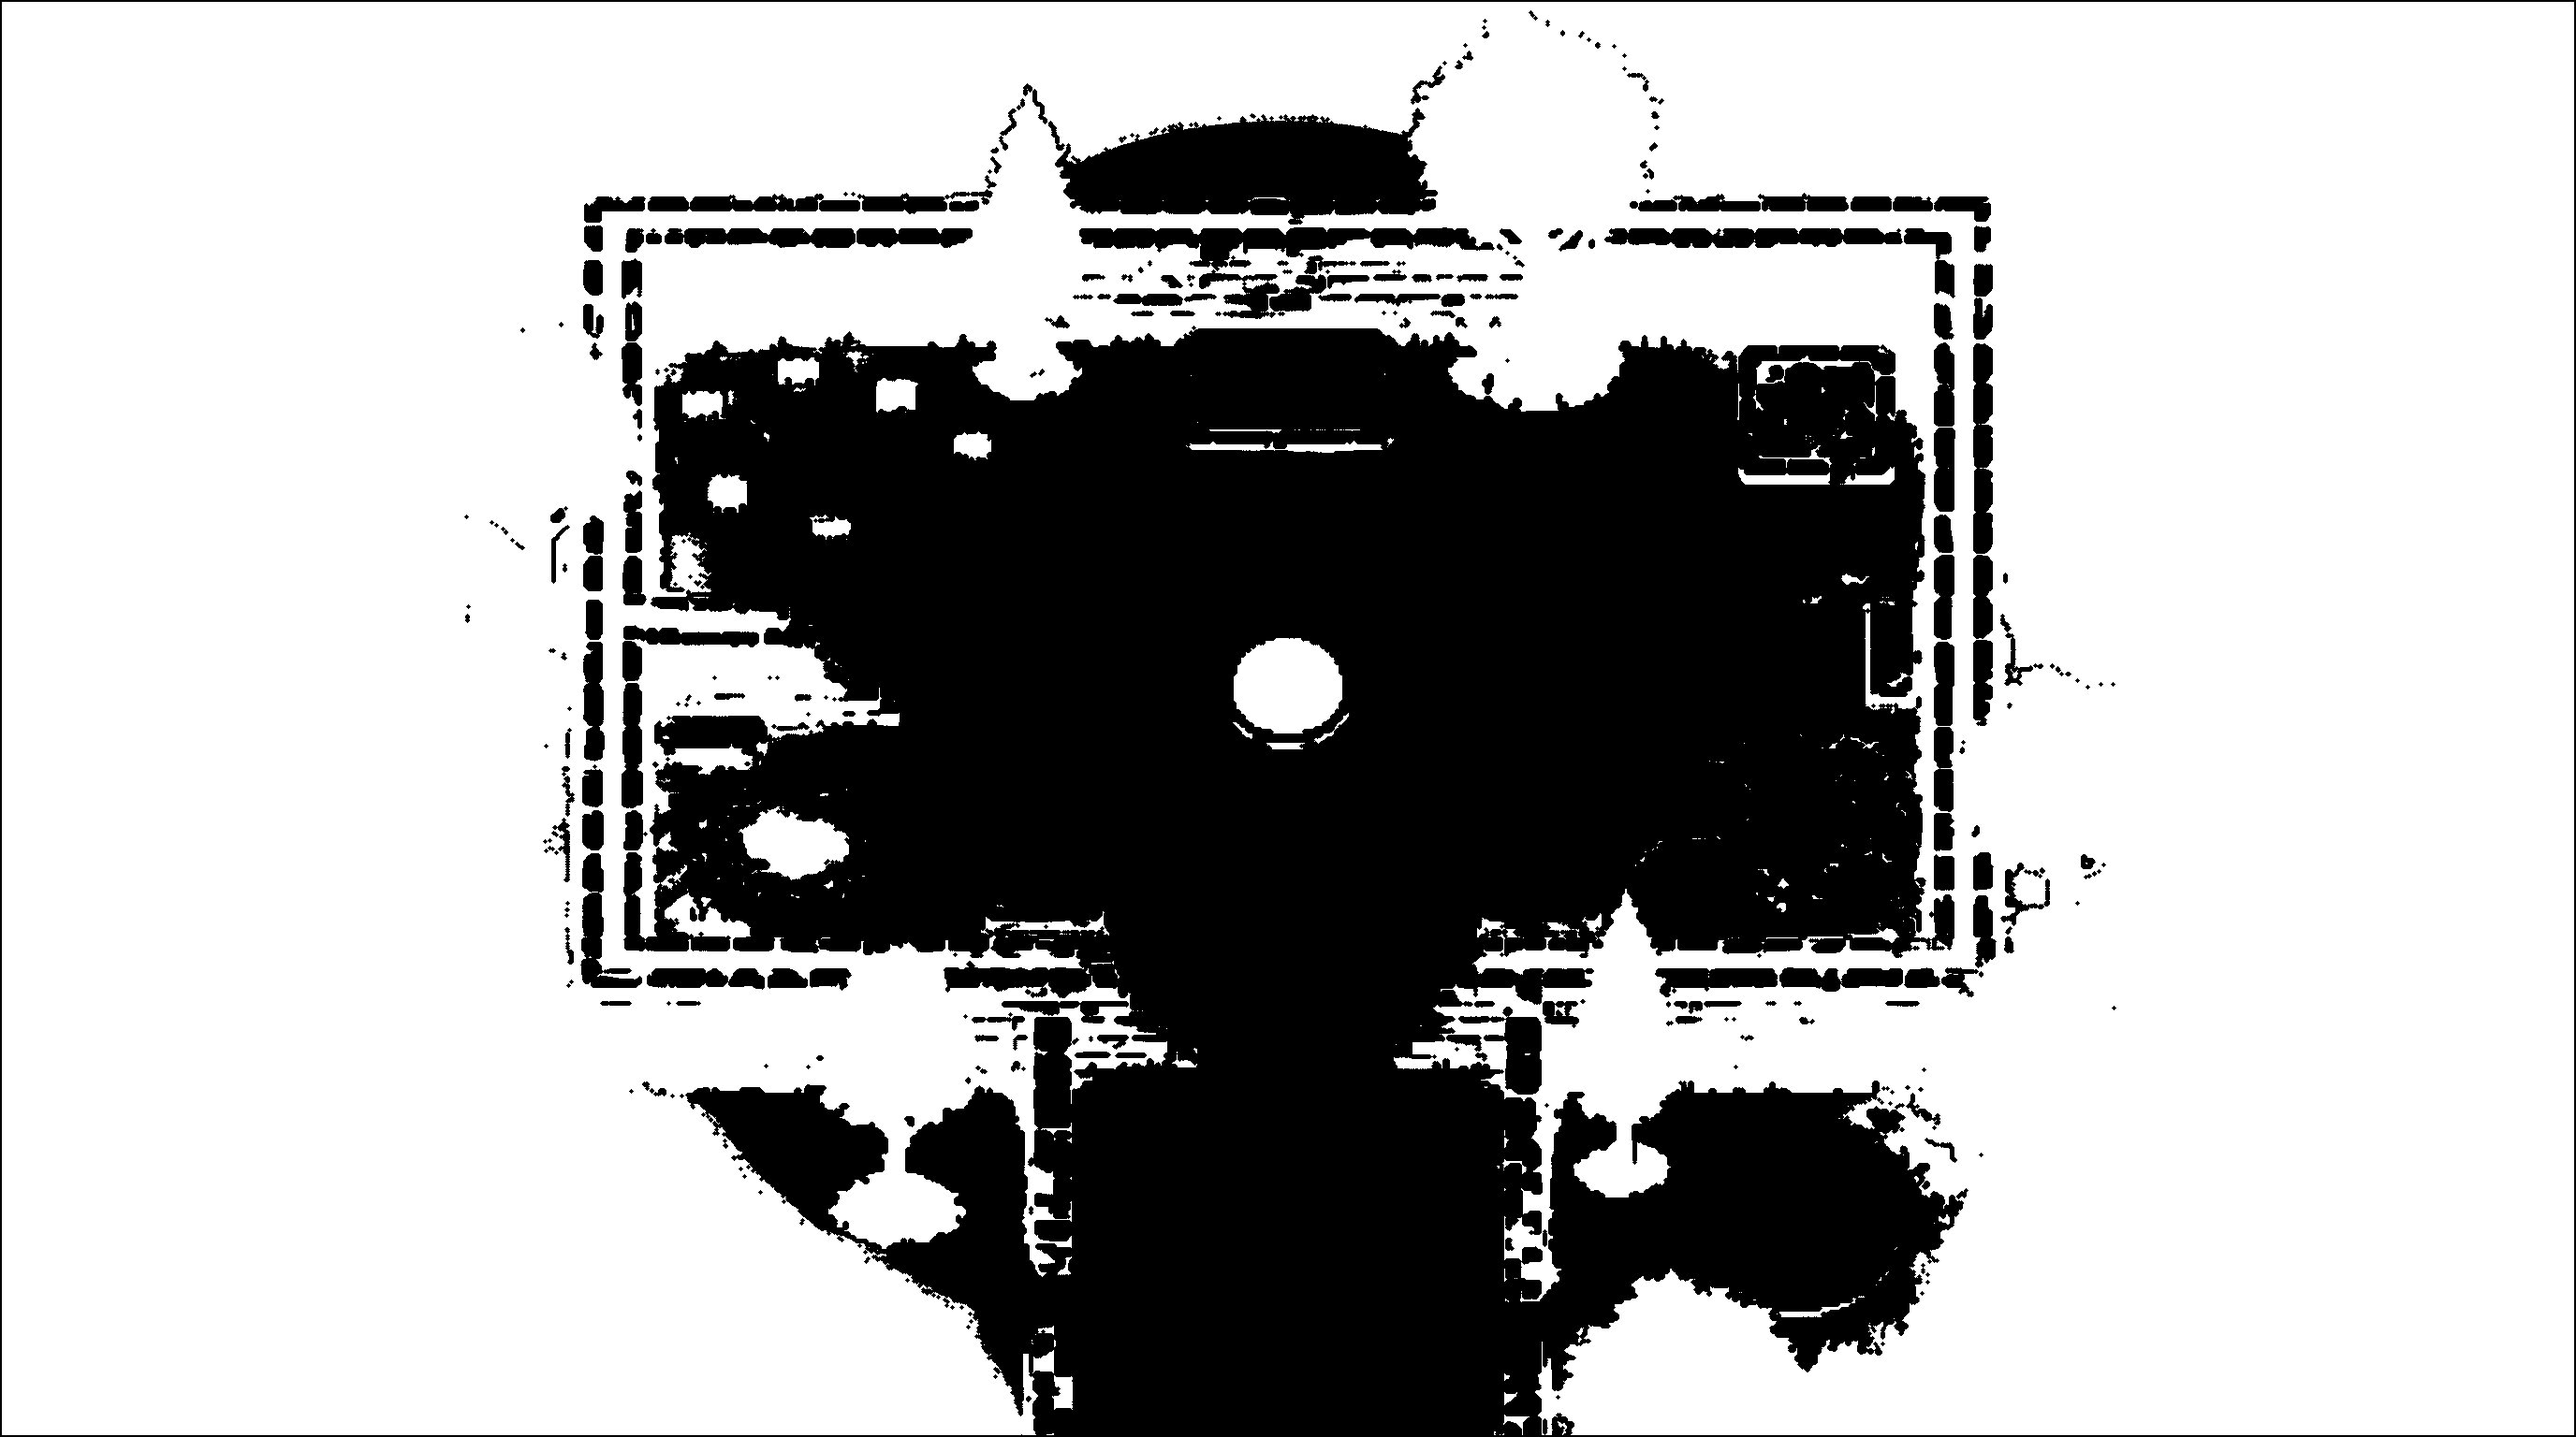
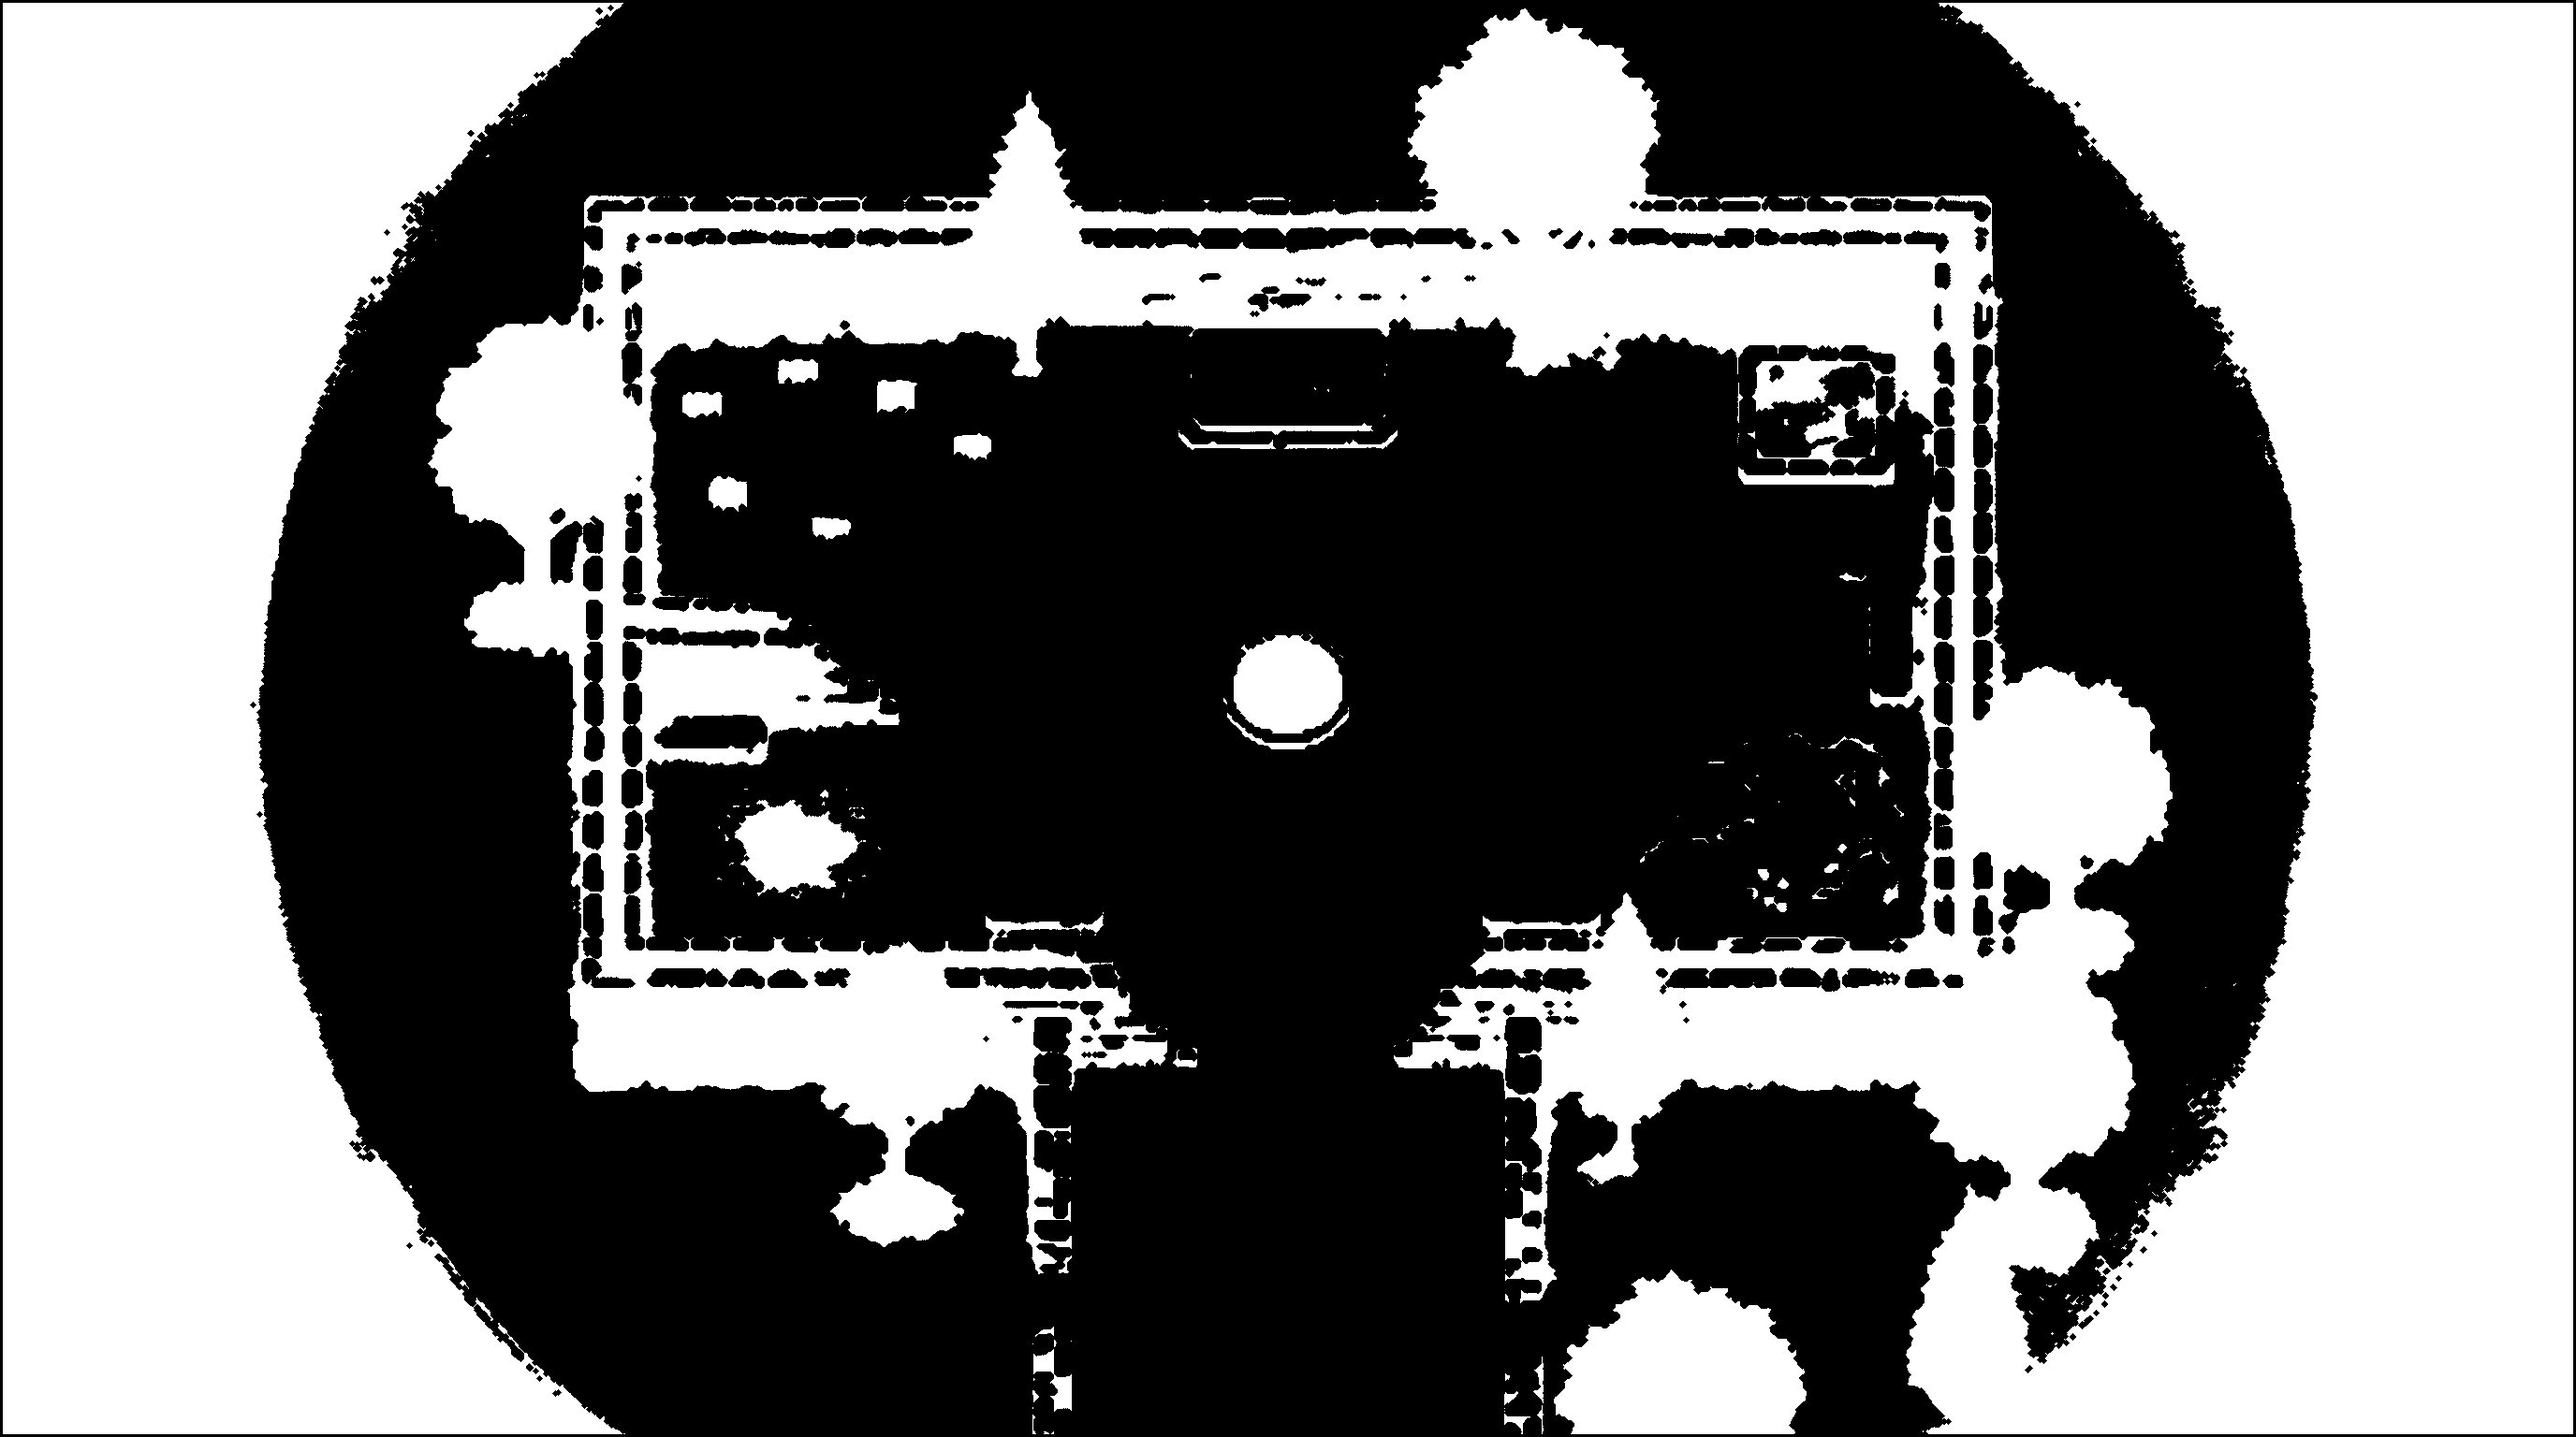
fix: smarter walkability + smarter torch placement
User feedback: walls still walkable in spots; torches placed on
doors. Two real-world flaws addressed.

WALKABILITY — chromatic classifier replaces pure luminance threshold.
Previous mask used 'lum < 75 = blocked,' which mis-classified DARK
GREEN GRASS (lum 50-90) as walls because grass and stone share a
luminance range. Now uses RGB chromatic separation:

  green-dominant pixel (G > R+8 AND G > B+8) → grass/foliage
    (walkable, except very dark <35 lum which is dense tree → blocked)
  non-green dark pixel (lum < 80) → stone/wall → blocked
  otherwise → walkable

Plus morphological closing (1 iter) + erosion (2 iter) to fill 1-2px
gaps in walls and keep narrow path corridors open.

Result: 45.6% blocked (was 67.6% with pure-luminance, was ~50% with
the original lax mask). Walls and trees solidly blocked, grass and
cobble correctly walkable, painted central pit covered by
ALWAYS_WALKABLE rect (unchanged).

TORCH PLACEMENT — previously skipped only the legacy single-center
door column. Graph rooms (most rooms) use data.doorPlan.north which
can have multiple door columns at non-center positions, so torches
landed right next to doors. Now collects ALL door columns from
data.doorPlan and skips any torch column within ±2 of any door —
clear breathing room around every doorway.

diff --git a/slime-depths/src/room.js b/slime-depths/src/room.js
@@ -593,9 +593,19 @@ export function buildRoomFromData(data) {
   roomTorches.length = 0;
   if (data.kind !== 'hamlet') {
     const torchCols = (data.kind === 'boss') ? [3, 8, 11, 16] : [5, 14];
-    const skipDoor = northDoorPos();
+    // Collect ALL north-wall door columns. data.doorPlan.north is an
+    // array of door tile x-positions in graph rooms (legacy single
+    // center door uses northDoorPos()). Previously we only skipped the
+    // legacy center door column — torches still landed right next to
+    // doors when the doorPlan placed multiple doors at non-center
+    // columns. Now we skip torch columns within ±2 of ANY door so
+    // there's clear breathing room around each doorway.
+    const doorCols = (data.doorPlan && data.doorPlan.north && data.doorPlan.north.length > 0)
+      ? data.doorPlan.north
+      : [northDoorPos().x];
     for (const col of torchCols) {
-      if (col === skipDoor.x) continue;
+      const tooCloseToDoor = doorCols.some(dc => Math.abs(col - dc) <= 2);
+      if (tooCloseToDoor) continue;
       roomTorches.push({
         x: col * TILE + TILE/2,
         // y aligned with the NEW torch sprite's visible flame center.
